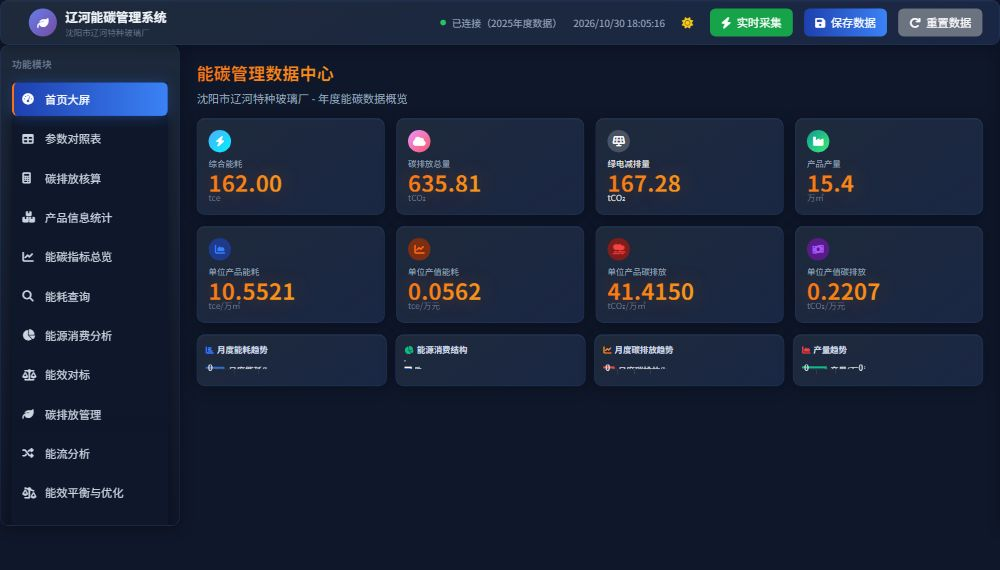
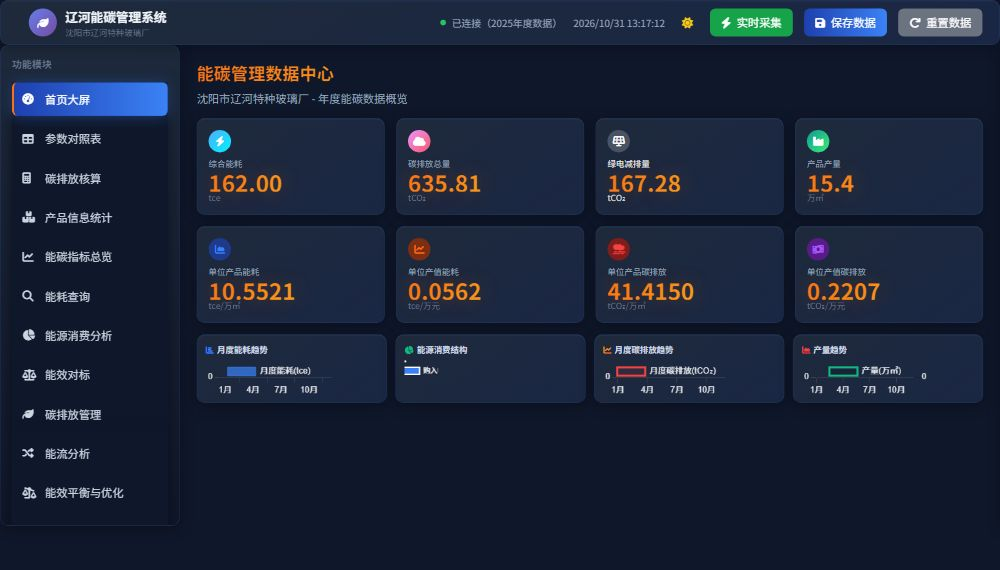
Add files via upload

Changed region(s): [[0.186, 0.6263, 0.992, 0.7158], [0.62, 0.0298, 0.651, 0.0596]]

diff --git a/index.html b/index.html
@@ -10,8 +10,8 @@
     <link rel="icon" type="image/png" href="icons/icon-192.png">
     <script src="https://cdn.tailwindcss.com"></script>
     <script src="https://cdn.jsdelivr.net/npm/chart.js"></script>
-    <script src="https://cdnjs.cloudflare.com/ajax/libs/html2pdf.js/0.10.1/html2pdf.bundle.min.js"></script>
-    <link rel="stylesheet" href="https://cdnjs.cloudflare.com/ajax/libs/font-awesome/6.4.0/css/all.min.css">
+    <script src="https://cdn.jsdelivr.net/npm/html2pdf.js@0.10.1/dist/html2pdf.bundle.min.js"></script>
+    <link rel="stylesheet" href="https://cdn.jsdelivr.net/npm/@fortawesome/fontawesome-free@6.4.0/css/all.min.css">
     <script>
         tailwind.config = {
             darkMode: 'class',
@@ -62,6 +62,8 @@
                 margin: 0; 
                 padding: 0;
                 width: 100%;
+                height: auto !important;
+                overflow: visible !important;
             }
             
             /* 隐藏页面上所有非打印内容 */
@@ -69,12 +71,10 @@
                 display: none !important; 
             }
             
-            /* 显示打印专用容器 */
+            /* 显示打印专用容器：普通文档流布局，保证长报告分页正常 */
             .print-only { 
                 display: block !important; 
-                position: absolute !important;
-                left: 0 !important;
-                top: 0 !important;
+                position: static !important;
                 width: 100% !important;
                 background: white !important;
                 padding: 0 !important;
@@ -5194,61 +5194,41 @@ function exportCSV() {
                 return;
             }
             
-            // 创建离屏容器用于PDF导出
-            const pdfContainer = document.createElement('div');
-            pdfContainer.style.cssText = `
-                position: fixed;
-                left: 0;
-                top: 0;
-                width: 210mm;
-                min-height: 297mm;
-                padding: 15mm;
-                background: white;
-                font-family: 'Microsoft YaHei', 'PingFang SC', sans-serif;
-                color: #333;
-                box-sizing: border-box;
-                z-index: 99999;
-            `;
+            // html2pdf 未加载（离线/弱网）时降级为浏览器打印，可另存为 PDF
+            if (typeof html2pdf === 'undefined') {
+                alert('PDF组件未加载（可能网络原因），已改用浏览器打印：请在打印对话框选择"另存为PDF"。');
+                printReport();
+                return;
+            }
             
-            // 复制报告内容
-            pdfContainer.innerHTML = element.innerHTML;
+            // 直接从报告源元素渲染（html2pdf 内部克隆），不用离屏容器，避免渲染空白
+            const opt = {
+                margin: [10, 10, 12, 10],
+                filename: `沈阳市辽河特种玻璃厂_${reportNames[type]}.pdf`,
+                image: { type: 'png', quality: 0.98 },
+                html2canvas: { 
+                    scale: 2,
+                    useCORS: true,
+                    logging: false,
+                    backgroundColor: '#ffffff',
+                    windowWidth: 794,
+                    onclone: (doc) => {
+                        // 克隆副本里移除操作按钮，不碰源元素
+                        doc.querySelectorAll('.print-content button').forEach(b => b.remove());
+                    }
+                },
+                jsPDF: { 
+                    unit: 'mm', 
+                    format: 'a4', 
+                    orientation: 'portrait' 
+                },
+                pagebreak: { mode: ['css', 'legacy'] }
+            };
             
-            // 移除按钮
-            const buttons = pdfContainer.querySelectorAll('button');
-            buttons.forEach(btn => btn.remove());
-            
-            document.body.appendChild(pdfContainer);
-            
-            // 等待渲染
-            setTimeout(() => {
-                const opt = {
-                    margin: 0,
-                    filename: `沈阳市辽河特种玻璃厂_${reportNames[type]}.pdf`,
-                    image: { type: 'png', quality: 1 },
-                    html2canvas: { 
-                        scale: 2,
-                        useCORS: true,
-                        logging: false,
-                        backgroundColor: '#ffffff',
-                        width: 794,  // 210mm in 96dpi
-                        windowWidth: 794
-                    },
-                    jsPDF: { 
-                        unit: 'mm', 
-                        format: 'a4', 
-                        orientation: 'portrait' 
-                    },
-                    pagebreak: { mode: 'avoid-all' }
-                };
-                
-                html2pdf().set(opt).from(pdfContainer).save().then(() => {
-                    document.body.removeChild(pdfContainer);
-                }).catch(err => {
-                    console.error('PDF导出失败:', err);
-                    document.body.removeChild(pdfContainer);
-                    alert('PDF导出失败，请重试');
-                });
-            }, 200);
+            html2pdf().set(opt).from(element).save().catch(err => {
+                console.error('PDF导出失败:', err);
+                alert('PDF导出失败，请改用"打印报告 → 另存为PDF"。');
+            });
         }
 
         // 发布数据：导出 data.json 文件（上传到 GitHub 仓库根目录后其他人即可看到）

diff --git a/辽河能碳管理软件PWA版.html b/辽河能碳管理软件PWA版.html
@@ -10,8 +10,8 @@
     <link rel="icon" type="image/png" href="icons/icon-192.png">
     <script src="https://cdn.tailwindcss.com"></script>
     <script src="https://cdn.jsdelivr.net/npm/chart.js"></script>
-    <script src="https://cdnjs.cloudflare.com/ajax/libs/html2pdf.js/0.10.1/html2pdf.bundle.min.js"></script>
-    <link rel="stylesheet" href="https://cdnjs.cloudflare.com/ajax/libs/font-awesome/6.4.0/css/all.min.css">
+    <script src="https://cdn.jsdelivr.net/npm/html2pdf.js@0.10.1/dist/html2pdf.bundle.min.js"></script>
+    <link rel="stylesheet" href="https://cdn.jsdelivr.net/npm/@fortawesome/fontawesome-free@6.4.0/css/all.min.css">
     <script>
         tailwind.config = {
             darkMode: 'class',
@@ -62,6 +62,8 @@
                 margin: 0; 
                 padding: 0;
                 width: 100%;
+                height: auto !important;
+                overflow: visible !important;
             }
             
             /* 隐藏页面上所有非打印内容 */
@@ -69,12 +71,10 @@
                 display: none !important; 
             }
             
-            /* 显示打印专用容器 */
+            /* 显示打印专用容器：普通文档流布局，保证长报告分页正常 */
             .print-only { 
                 display: block !important; 
-                position: absolute !important;
-                left: 0 !important;
-                top: 0 !important;
+                position: static !important;
                 width: 100% !important;
                 background: white !important;
                 padding: 0 !important;
@@ -5194,61 +5194,41 @@ function exportCSV() {
                 return;
             }
             
-            // 创建离屏容器用于PDF导出
-            const pdfContainer = document.createElement('div');
-            pdfContainer.style.cssText = `
-                position: fixed;
-                left: 0;
-                top: 0;
-                width: 210mm;
-                min-height: 297mm;
-                padding: 15mm;
-                background: white;
-                font-family: 'Microsoft YaHei', 'PingFang SC', sans-serif;
-                color: #333;
-                box-sizing: border-box;
-                z-index: 99999;
-            `;
+            // html2pdf 未加载（离线/弱网）时降级为浏览器打印，可另存为 PDF
+            if (typeof html2pdf === 'undefined') {
+                alert('PDF组件未加载（可能网络原因），已改用浏览器打印：请在打印对话框选择"另存为PDF"。');
+                printReport();
+                return;
+            }
             
-            // 复制报告内容
-            pdfContainer.innerHTML = element.innerHTML;
+            // 直接从报告源元素渲染（html2pdf 内部克隆），不用离屏容器，避免渲染空白
+            const opt = {
+                margin: [10, 10, 12, 10],
+                filename: `沈阳市辽河特种玻璃厂_${reportNames[type]}.pdf`,
+                image: { type: 'png', quality: 0.98 },
+                html2canvas: { 
+                    scale: 2,
+                    useCORS: true,
+                    logging: false,
+                    backgroundColor: '#ffffff',
+                    windowWidth: 794,
+                    onclone: (doc) => {
+                        // 克隆副本里移除操作按钮，不碰源元素
+                        doc.querySelectorAll('.print-content button').forEach(b => b.remove());
+                    }
+                },
+                jsPDF: { 
+                    unit: 'mm', 
+                    format: 'a4', 
+                    orientation: 'portrait' 
+                },
+                pagebreak: { mode: ['css', 'legacy'] }
+            };
             
-            // 移除按钮
-            const buttons = pdfContainer.querySelectorAll('button');
-            buttons.forEach(btn => btn.remove());
-            
-            document.body.appendChild(pdfContainer);
-            
-            // 等待渲染
-            setTimeout(() => {
-                const opt = {
-                    margin: 0,
-                    filename: `沈阳市辽河特种玻璃厂_${reportNames[type]}.pdf`,
-                    image: { type: 'png', quality: 1 },
-                    html2canvas: { 
-                        scale: 2,
-                        useCORS: true,
-                        logging: false,
-                        backgroundColor: '#ffffff',
-                        width: 794,  // 210mm in 96dpi
-                        windowWidth: 794
-                    },
-                    jsPDF: { 
-                        unit: 'mm', 
-                        format: 'a4', 
-                        orientation: 'portrait' 
-                    },
-                    pagebreak: { mode: 'avoid-all' }
-                };
-                
-                html2pdf().set(opt).from(pdfContainer).save().then(() => {
-                    document.body.removeChild(pdfContainer);
-                }).catch(err => {
-                    console.error('PDF导出失败:', err);
-                    document.body.removeChild(pdfContainer);
-                    alert('PDF导出失败，请重试');
-                });
-            }, 200);
+            html2pdf().set(opt).from(element).save().catch(err => {
+                console.error('PDF导出失败:', err);
+                alert('PDF导出失败，请改用"打印报告 → 另存为PDF"。');
+            });
         }
 
         // 发布数据：导出 data.json 文件（上传到 GitHub 仓库根目录后其他人即可看到）

diff --git a/sw.js b/sw.js
@@ -1,5 +1,5 @@
 /* 辽河能碳管理系统 - Service Worker v3.0（2025年度数据修正版） */
-const CACHE_NAME = 'liaohe-energy-carbon-v6';
+const CACHE_NAME = 'liaohe-energy-carbon-v7';
 
 // 预缓存核心资源（相对路径，与发布产物根目录一致）
 const PRECACHE_URLS = [
